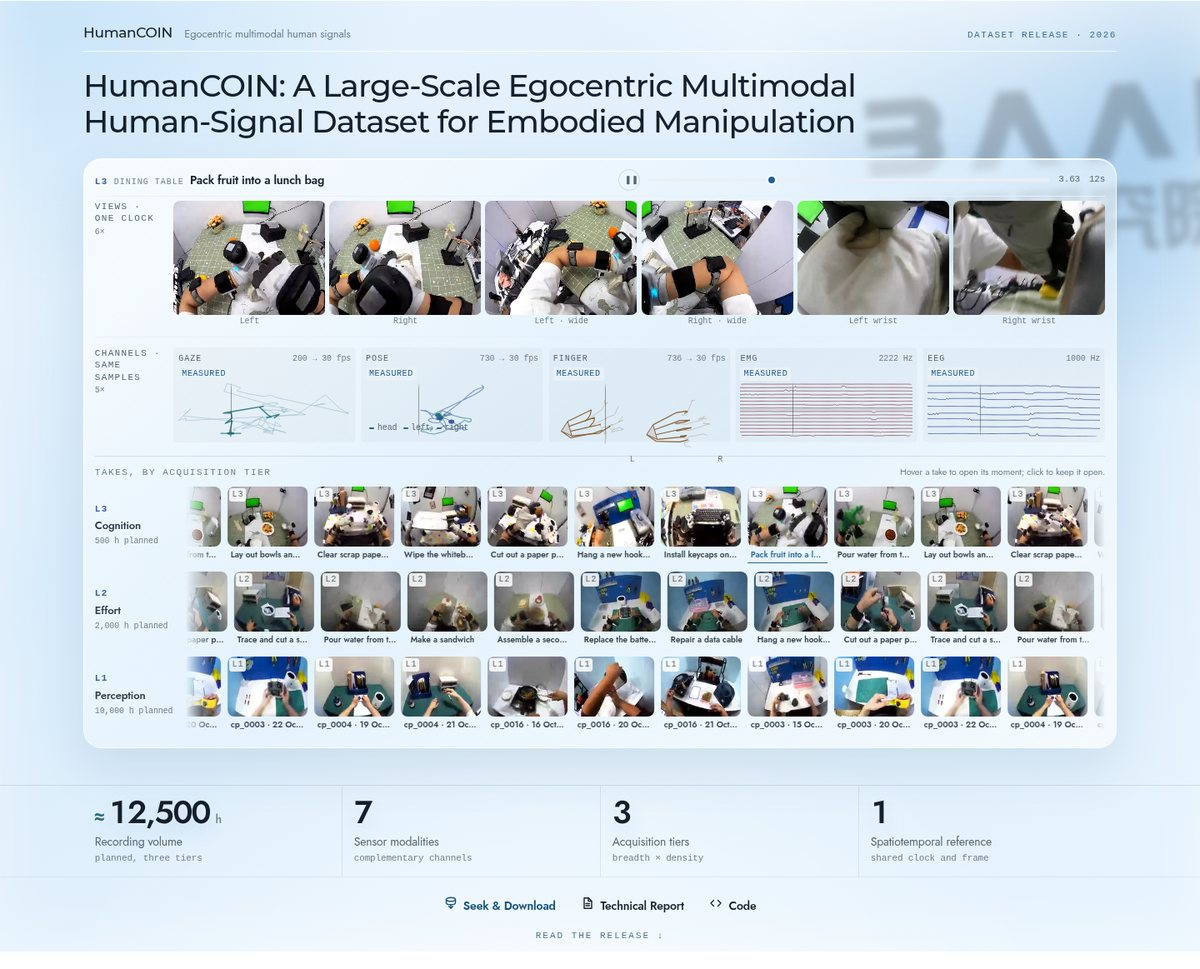
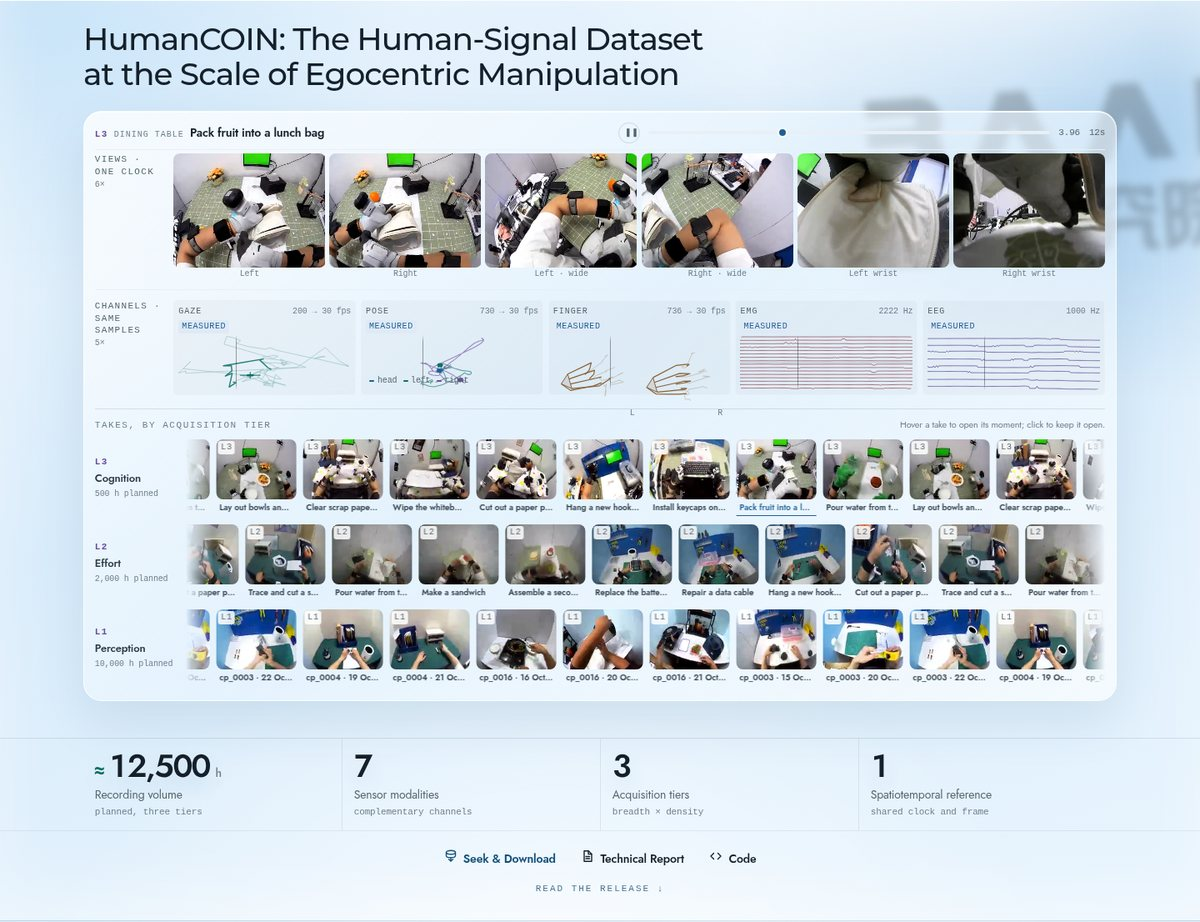
Align cover title with the report

diff --git a/src/sections/HeroSection.vue b/src/sections/HeroSection.vue
@@ -2,11 +2,10 @@
 /**
  * The cover.
  *
- * Laid out as a journal cover rather than as a landing page: a masthead rule
- * naming the project and the release, then the paper title, then one figure
- * with its own numbered caption. Nothing else — a cover carries the title, and
- * the claim and the standfirst belong to the abstract, where there is room to
- * argue them.
+ * Laid out as a journal cover rather than as a landing page: the paper title,
+ * then one figure with its own numbered caption. Nothing else — a cover carries
+ * the title, and the claim and the standfirst belong to the abstract, where
+ * there is room to argue them.
  *
  * The figure is the release itself, shown as a carousel over a synchronised
  * moment. Three marquee rows carry the takes, one per acquisition tier, each row
@@ -141,13 +140,6 @@ onMounted(() => {
     <img class="cover__mark" :src="BAAI_MARK" alt="" aria-hidden="true" />
 
     <div class="shell cover__inner">
-      <!-- masthead -->
-      <header class="masthead">
-        <span class="masthead__name">{{ t(COVER.masthead) }}</span>
-        <span class="masthead__disc">{{ t(COVER.discipline) }}</span>
-        <span class="masthead__issue mono">{{ t(COVER.issue) }}</span>
-      </header>
-
       <h1 class="cover__title">{{ t(COVER.title) }}</h1>
 
       <figure class="coverfig">
@@ -277,34 +269,6 @@ onMounted(() => {
 }
 
 .cover__inner { position: relative; z-index: 1; }
-
-/* ---- masthead ---- */
-.masthead {
-  display: flex;
-  align-items: baseline;
-  gap: 0.9rem;
-  padding-bottom: 0.55rem;
-  border-bottom: 1px solid rgba(255, 255, 255, 0.85);
-  margin-bottom: clamp(0.85rem, 0.65rem + 0.7vw, 1.25rem);
-}
-.masthead__name {
-  font-family: var(--ff-display);
-  font-size: var(--fs-h4);
-  font-weight: 500;
-  letter-spacing: -0.02em;
-  color: var(--ink);
-}
-.masthead__disc {
-  font-size: var(--fs-micro);
-  color: var(--ink-mute);
-}
-.masthead__issue {
-  margin-left: auto;
-  font-size: var(--fs-tick);
-  letter-spacing: 0.14em;
-  text-transform: uppercase;
-  color: #3a6f96;
-}
 
 /* ---- the paper title ---- */
 .cover__title {

diff --git a/src/data/cover.ts b/src/data/cover.ts
@@ -1,10 +1,10 @@
 /**
  * The cover band: the journal-cover reading at the top of the page.
  *
- * Structure follows a printed cover rather than a landing page. A masthead rule
- * with the project name and issue line, then the paper title set in the display
- * serif — a cover carries the title, and the claim and the standfirst belong to
- * the abstract, where there is room to argue them.
+ * Structure follows a printed cover rather than a landing page: the paper title
+ * set in the display serif, then the figure — a cover carries the title, and the
+ * claim and the standfirst belong to the abstract, where there is room to argue
+ * them.
  *
  * The figure is the release, shown three ways at once. A carousel carries one
  * marquee row per acquisition tier — L3, L2, L1 — and choosing a take opens the
@@ -24,16 +24,10 @@
 import type { Bi } from '@/content'
 
 export const COVER = {
-  masthead: { en: 'HumanCOIN', zh: 'HumanCOIN' },
-  issue: { en: 'Dataset release · 2026', zh: '数据集发布 · 2026' },
-  discipline: {
-    en: 'Egocentric multimodal human signals',
-    zh: '第一人称多模态人体信号',
-  },
-  /* The cover carries the paper title and nothing else. */
+  /* The cover carries the report's title and nothing else. */
   title: {
-    en: 'HumanCOIN: A Large-Scale Egocentric Multimodal Human-Signal Dataset for Embodied Manipulation',
-    zh: 'HumanCOIN：面向具身操作的大规模第一人称多模态人体信号数据集',
+    en: 'HumanCOIN: The Human-Signal Dataset at the Scale of Egocentric Manipulation',
+    zh: 'HumanCOIN：第一人称操作规模下的人体信号数据集',
   },
   figureLabel: { en: 'Cover figure', zh: '封面图' },
   figureNote: {

diff --git a/index.html b/index.html
@@ -3,11 +3,11 @@
   <head>
     <meta charset="UTF-8" />
     <meta name="viewport" content="width=device-width, initial-scale=1, viewport-fit=cover" />
-    <title>HumanCOIN — A Large-Scale Egocentric Multimodal Human-Signal Dataset</title>
+    <title>HumanCOIN — The Human-Signal Dataset at the Scale of Egocentric Manipulation</title>
     <meta name="description" content="HumanCOIN is a three-tier egocentric dataset that pairs visible manipulation with hidden human signals — gaze, surface EMG, EEG, glove kinematics and head-mounted multi-view video — under one spatiotemporal reference." />
     <meta name="theme-color" content="#ffffff" />
     <meta property="og:type" content="website" />
-    <meta property="og:title" content="HumanCOIN — Egocentric Multimodal Human-Signal Dataset" />
+    <meta property="og:title" content="HumanCOIN — The Human-Signal Dataset at the Scale of Egocentric Manipulation" />
     <meta property="og:description" content="From visible action to hidden signals: a three-tier dataset for embodied manipulation research." />
     <meta name="twitter:card" content="summary_large_image" />
   </head>

diff --git a/src/styles/tokens.css b/src/styles/tokens.css
@@ -19,7 +19,7 @@
   --fs-h2: clamp(1.5rem, 1.25rem + 1vw, 2.1rem);      /* 24 → 34px */
   --fs-h1: clamp(2rem, 1.6rem + 2.2vw, 3.2rem);       /* 32 → 51px */
   --fs-stat: clamp(1.75rem, 1.4rem + 1.4vw, 2.4rem);
-  /* Cover masthead: the journal-cover title. Slightly smaller than h1 because
+  /* Cover title: the journal-cover title. Slightly smaller than h1 because
      it is set in the display serif, which runs optically larger at equal size. */
   --fs-cover: clamp(1.8rem, 1.45rem + 1.1vw, 2.35rem);
   --fs-fig-num: 0.6875rem;
